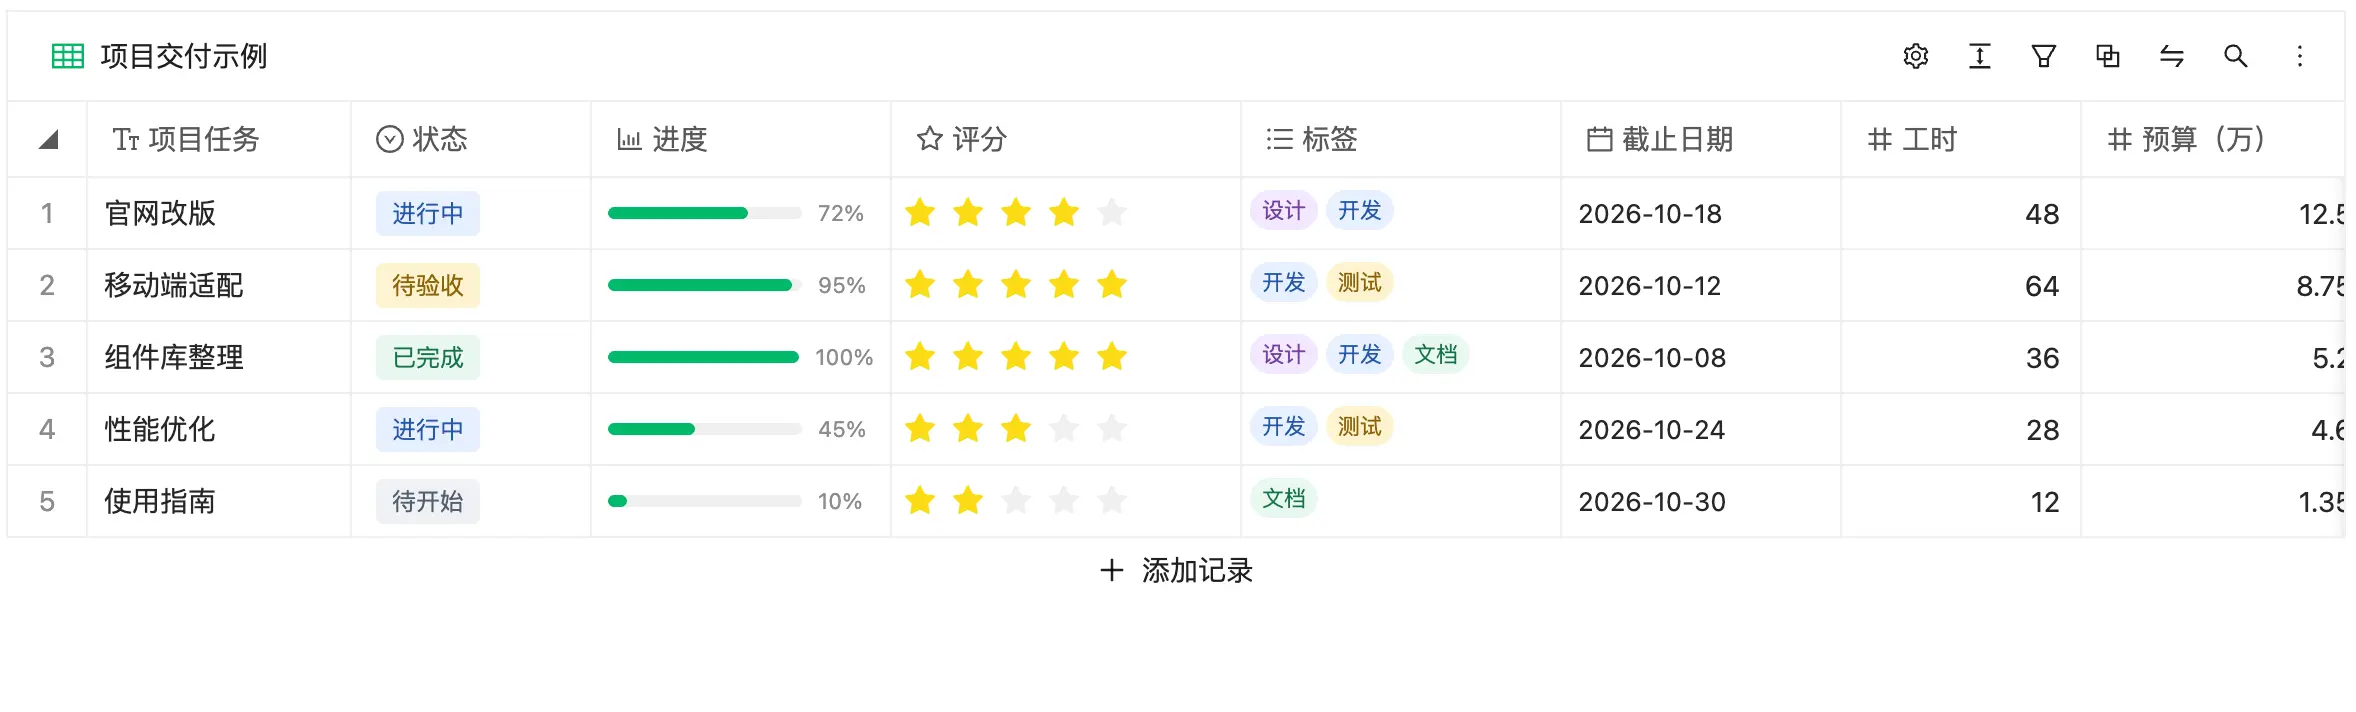
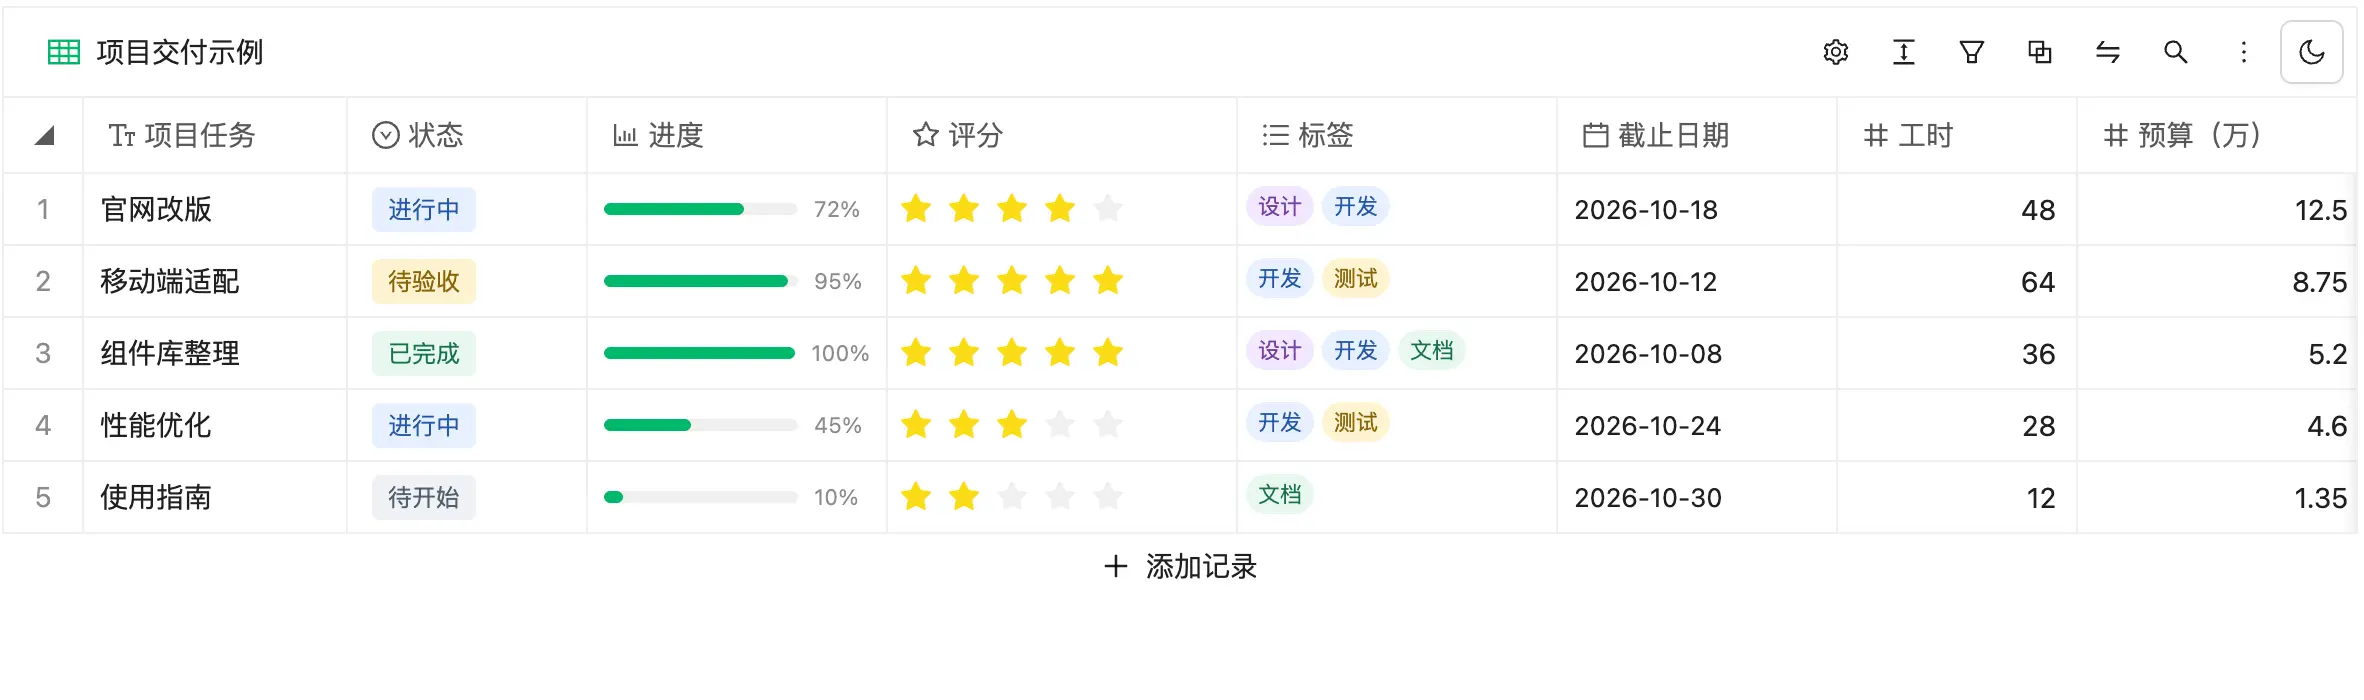
feat: 增加黑暗主题切换

diff --git a/src/App.tsx b/src/App.tsx
@@ -1,4 +1,4 @@
-import { Alert, Button, ConfigProvider, type ThemeConfig } from 'antd'
+import { Alert, theme as antdTheme, Button, ConfigProvider, type ThemeConfig } from 'antd'
 import type React from 'react'
 import { lazy, Suspense, useCallback, useMemo, useRef, useState } from 'react'
 import type { ContextMenuComponentProps } from 'react-datasheet-grid'
@@ -32,6 +32,7 @@ import { columnWidth } from './model/columnWidth'
 import type { TableDocument } from './model/document'
 import { newField } from './model/document'
 import { ROW_HEIGHT } from './model/rowHeight'
+import { STORAGE_KEY } from './model/storage'
 import { cellText, createRow, duplicateValues, processRows, textColorTarget } from './model/table'
 
 const FieldModal = lazy(() => import('./components/FieldModal'))
@@ -45,12 +46,26 @@ export interface DimGridProps {
   initialData?: Pick<TableDocument, 'fields' | 'rows'> & { view?: TableDocument['view'] }
   /** Read and save data in localStorage; defaults to true. */
   enableLocalStorage?: boolean
+  /** Remember the toolbar's light/dark choice; defaults to enableLocalStorage. */
+  persistTheme?: boolean
   /** A unique key is recommended when several grids share the same origin. */
   storageKey?: string
   /** Height of the grid container; defaults to 100%. */
   height?: React.CSSProperties['height']
   className?: string
   style?: React.CSSProperties
+}
+
+type ColorMode = 'light' | 'dark'
+type GridProps = DimGridProps & { colorMode: ColorMode; onToggleColorMode: () => void }
+
+function savedColorMode(key: string): ColorMode | null {
+  try {
+    const value = window.localStorage.getItem(key)
+    return value === 'light' || value === 'dark' ? value : null
+  } catch {
+    return null
+  }
 }
 
 function Grid({
@@ -60,9 +75,11 @@ function Grid({
   height = '100%',
   className,
   style,
-  theme,
-}: DimGridProps) {
+  colorMode,
+  onToggleColorMode,
+}: GridProps) {
   const t = useT()
+  const { token } = antdTheme.useToken()
   const locale = useGridLocale()
   const rootRef = useRef<HTMLDivElement>(null)
   const {
@@ -376,9 +393,30 @@ function Grid({
     <div
       ref={rootRef}
       className={`${s.app} dim-grid${className ? ` ${className}` : ''}`}
-      style={{ ...style, height, '--color-primary': theme?.token?.colorPrimary ?? '#00b96b' } as React.CSSProperties}
+      style={
+        {
+          ...style,
+          height,
+          colorScheme: colorMode,
+          '--color-primary': token.colorPrimary,
+          '--color-text': token.colorText,
+          '--color-text-secondary': token.colorTextSecondary,
+          '--color-text-muted': token.colorTextTertiary,
+          '--color-text-placeholder': token.colorTextQuaternary,
+          '--color-icon': token.colorTextSecondary,
+          '--color-border': token.colorBorder,
+          '--color-border-secondary': token.colorBorderSecondary,
+          '--color-bg': token.colorBgContainer,
+          '--color-bg-hover': token.colorFillQuaternary,
+          '--color-bg-input-hover': token.colorFillTertiary,
+          '--color-danger': token.colorError,
+          '--color-danger-bg': token.colorErrorBg,
+        } as React.CSSProperties
+      }
     >
       <GridToolbar
+        colorMode={colorMode}
+        onToggleColorMode={onToggleColorMode}
         table={table}
         recoveryRaw={recoveryRaw}
         setView={setView}
@@ -456,11 +494,49 @@ function Grid({
   )
 }
 
-export default function App({ locale = 'zh-CN', theme, ...props }: DimGridProps) {
+export default function App({
+  locale = 'zh-CN',
+  theme,
+  storageKey,
+  enableLocalStorage = true,
+  persistTheme = enableLocalStorage,
+  ...props
+}: DimGridProps) {
+  const themeStorageKey = `${storageKey ?? STORAGE_KEY}.colorMode`
+  const [modeOverride, setModeOverride] = useState<ColorMode | null>(() =>
+    persistTheme ? savedColorMode(themeStorageKey) : null,
+  )
+  const algorithms = theme?.algorithm ? (Array.isArray(theme.algorithm) ? theme.algorithm : [theme.algorithm]) : []
+  const colorMode: ColorMode = modeOverride ?? (algorithms.includes(antdTheme.darkAlgorithm) ? 'dark' : 'light')
+  const effectiveTheme: ThemeConfig = {
+    ...theme,
+    token: { colorPrimary: '#00b96b', ...theme?.token },
+    algorithm: modeOverride
+      ? modeOverride === 'dark'
+        ? antdTheme.darkAlgorithm
+        : antdTheme.defaultAlgorithm
+      : theme?.algorithm,
+  }
   return (
     <LocaleContext.Provider value={locale}>
-      <ConfigProvider locale={antLocales[locale]} theme={theme ?? { token: { colorPrimary: '#00b96b' } }}>
-        <Grid {...props} theme={theme} />
+      <ConfigProvider locale={antLocales[locale]} theme={effectiveTheme}>
+        <Grid
+          {...props}
+          storageKey={storageKey}
+          enableLocalStorage={enableLocalStorage}
+          colorMode={colorMode}
+          onToggleColorMode={() => {
+            const nextMode = colorMode === 'dark' ? 'light' : 'dark'
+            setModeOverride(nextMode)
+            if (persistTheme) {
+              try {
+                window.localStorage.setItem(themeStorageKey, nextMode)
+              } catch {
+                // Keep the selected theme for this session when storage is unavailable.
+              }
+            }
+          }}
+        />
       </ConfigProvider>
     </LocaleContext.Provider>
   )

diff --git a/src/components/GridToolbar.tsx b/src/components/GridToolbar.tsx
@@ -1,8 +1,10 @@
-import { Flex } from 'antd'
+import { MoonOutlined, SunOutlined } from '@ant-design/icons'
+import { Button, Flex, Tooltip } from 'antd'
 import type { Dispatch, ReactNode, SetStateAction } from 'react'
 import s from '../App.module.css'
 import { type FieldDef, type FilterItem, type GroupByState, newId, type SortItem } from '../constants'
 import type useTableDocument from '../hooks/useTableDocument'
+import { useT } from '../locale'
 import type { TableDocument } from '../model/document'
 import BackupControls from './BackupControls'
 import FilterPanel from './FilterPanel'
@@ -14,6 +16,8 @@ import TableSettings from './TableSettings'
 import ViewTitle from './ViewTitle'
 
 type Props = {
+  colorMode: 'light' | 'dark'
+  onToggleColorMode: () => void
   table: TableDocument
   recoveryRaw: string | null
   setView: ReturnType<typeof useTableDocument>['setView']
@@ -30,6 +34,8 @@ type Props = {
 }
 
 export default function GridToolbar({
+  colorMode,
+  onToggleColorMode,
   table,
   recoveryRaw,
   setView,
@@ -44,6 +50,7 @@ export default function GridToolbar({
   onImport,
   renderFieldMenu,
 }: Props) {
+  const t = useT()
   const {
     fields,
     view: { hiddenFields, pinnedFieldId, rowHeight, filters, groupBy, sorts },
@@ -51,7 +58,7 @@ export default function GridToolbar({
   return (
     <Flex className={s.toolbar} align="center" justify="space-between" gap="small" wrap>
       <ViewTitle name={table.view.name} onRename={(name) => setView('name', name)} />
-      <Flex className={s.toolbarActions} align="center" justify="flex-end" gap="0" wrap>
+      <Flex className={s.toolbarActions} align="center" justify="flex-end" gap={2} wrap>
         <TableSettings
           fields={fields}
           hiddenFields={hiddenFields}
@@ -94,7 +101,17 @@ export default function GridToolbar({
         />
 
         <SearchPanel onSearch={onSearch} />
+
         <BackupControls document={table} recoveryRaw={recoveryRaw} onImport={onImport} />
+
+        <Tooltip title={t(colorMode === 'dark' ? '切换到浅色主题' : '切换到深色主题')}>
+          <Button
+            variant="text"
+            icon={colorMode === 'dark' ? <SunOutlined /> : <MoonOutlined />}
+            aria-label={t(colorMode === 'dark' ? '切换到浅色主题' : '切换到深色主题')}
+            onClick={onToggleColorMode}
+          />
+        </Tooltip>
       </Flex>
     </Flex>
   )

diff --git a/src/components/buildDsgCol.tsx b/src/components/buildDsgCol.tsx
@@ -84,6 +84,17 @@ SelectCell.displayName = 'SelectCell'
 
 type MultiSelectColData = { options: FieldOption[]; fieldId: string }
 
+function MultiOptionTag({ option }: { option: FieldOption }) {
+  return (
+    <span
+      className={s.selectTagSmall}
+      style={{ '--tag-bg': option.color, '--tag-color': option.textColor } as React.CSSProperties}
+    >
+      {option.label}
+    </span>
+  )
+}
+
 const MultiSelectCell = React.memo(
   ({ active, rowData, setRowData, focus, stopEditing, columnData }: CellProps<RowData, MultiSelectColData>) => {
     const ref = useRef<React.ComponentRef<typeof Select>>(null)
@@ -118,28 +129,11 @@ const MultiSelectCell = React.memo(
           className={s.cellFull}
           options={options.map((o) => ({
             value: o.label,
-            label: (
-              <span style={{ display: 'inline-flex', alignItems: 'center', gap: 6 }}>
-                <span className={s.optionDot} style={{ '--dot-bg': o.color } as React.CSSProperties} />
-                {o.label}
-              </span>
-            ),
+            label: <MultiOptionTag option={o} />,
           }))}
           tagRender={(props) => {
             const o = options.find((x) => x.label === props.value)
-            return (
-              <span
-                className={s.selectTagSmall}
-                style={
-                  {
-                    '--tag-bg': o?.color || 'var(--color-border)',
-                    '--tag-color': o?.textColor || 'var(--color-text-secondary)',
-                  } as React.CSSProperties
-                }
-              >
-                {o?.label ?? props.value}
-              </span>
-            )
+            return o ? <MultiOptionTag option={o} /> : <span>{props.value}</span>
           }}
         />
       </div>

diff --git a/src/i18n.ts b/src/i18n.ts
@@ -1,6 +1,8 @@
 export type GridLocale = 'zh-CN' | 'en-US'
 
 const english: Record<string, string> = {
+  切换到浅色主题: 'Switch to light theme',
+  切换到深色主题: 'Switch to dark theme',
   文本: 'Text',
   数字: 'Number',
   单选: 'Single select',

diff --git a/src/components/buildDsgCol.module.css b/src/components/buildDsgCol.module.css
@@ -124,15 +124,6 @@
   font-size: 12px;
 }
 
-/* Option dot */
-.optionDot {
-  width: 10px;
-  height: 10px;
-  border-radius: 3px;
-  background: var(--dot-bg);
-  display: inline-block;
-}
-
 /* Date cell */
 .dateCell {
   padding: 0 8px;

diff --git a/src/main.tsx b/src/main.tsx
@@ -15,6 +15,7 @@ ReactDOM.createRoot(root).render(
       storageKey="dim-grid.demo"
       initialData={demoData}
       enableLocalStorage={false}
+      persistTheme
     />
   </StrictMode>,
 )

diff --git a/README.en.md b/README.en.md
@@ -9,6 +9,7 @@ An embeddable multidimensional grid for React applications. It supports editing 
 The main table view with text, status, progress, rating, tags, and date fields, plus an "Add record" entry at the bottom.
 
 ![Main table view](docs/demo.webp)
+![Main table view](docs/demo4.webp)
 
 Click a column header to open the column menu for editing, duplicating, inserting, pinning, grouping, filtering, sorting, and highlighting duplicates.
 
@@ -71,7 +72,7 @@ export function RecordsPage() {
 
 `initialData` initializes the grid only on its first mount. Every field and row needs a unique `id`; row values are keyed by field ID. By default, data already saved under `storageKey` takes precedence over `initialData`. Changing the `initialData` prop does not reset the current grid.
 
-Set `enableLocalStorage={false}` to disable browser storage. The grid then starts from `initialData` and does not read or write `localStorage`. Edits last only for the current component instance; JSON import and export remain available.
+Set `enableLocalStorage={false}` to disable browser storage. The grid then starts from `initialData` and does not read or write `localStorage`. Edits last only for the current component instance; JSON import and export remain available. Theme preferences are also not saved by default in this case; set `persistTheme` to save them separately.
 
 ### Component props
 
@@ -79,8 +80,9 @@ Set `enableLocalStorage={false}` to disable browser storage. The grid then start
 | --- | --- | --- | --- |
 | `initialData` | `{ fields, rows, view? }` | Built-in sample data | Initial grid content; `view` is optional. |
 | `locale` | `'zh-CN' \| 'en-US'` | `'zh-CN'` | Language for the grid UI, Ant Design controls, and date editor. |
-| `theme` | Ant Design `ThemeConfig` | — | Theme passed to the grid's internal `ConfigProvider`. |
+| `theme` | Ant Design `ThemeConfig` | — | Theme passed to the grid's internal `ConfigProvider`; grid colors also follow Ant Design tokens. |
 | `enableLocalStorage` | `boolean` | `true` | Whether to read from and write to browser local storage. |
+| `persistTheme` | `boolean` | Same as `enableLocalStorage` | Whether to remember the toolbar's light/dark choice in browser storage. |
 | `storageKey` | `string` | `dim-grid.document` | Local storage key; use a different key for each grid on the same origin. |
 | `height` | CSS height value | `100%` | Grid height; with `100%`, the parent must have a definite height. |
 | `className`, `style` | React container props | — | Attributes for the outer container. |
@@ -95,6 +97,8 @@ The grid configures its own Ant Design controls and date editor. The host app do
   height={600}
 />
 ```
+
+Use the moon/sun button at the right of the toolbar to switch themes. With `persistTheme` enabled, the choice is saved under `${storageKey}.colorMode` and survives a refresh. To start in dark mode, pass `theme={{ algorithm: antdTheme.darkAlgorithm }}` (import `theme as antdTheme` from `antd`).
 
 The `locale` prop translates the grid UI. Field names, options, and row values supplied by the host app remain as provided.
 

diff --git a/README.md b/README.md
@@ -10,6 +10,8 @@
 
 ![主表格视图](docs/demo.webp)
 
+![主表格视图](docs/demo4.webp)
+
 点击列头可打开列菜单，进行编辑列、复制列、插入列、固定、分组、筛选、排序和高亮重复值等操作。
 
 ![列菜单](docs/demo1.webp)
@@ -71,7 +73,7 @@ export function RecordsPage() {
 
 `initialData` 只在首次挂载时用于初始化。每个字段和记录都需要唯一的 `id`；记录中的值使用字段 ID 作键。默认情况下，组件会先读取 `storageKey` 对应的本地数据，因此已有保存内容会覆盖 `initialData`。修改 `initialData` 属性也不会重置正在编辑的表格。
 
-如果不需要浏览器本地存储，设置 `enableLocalStorage={false}`。此时组件从 `initialData` 开始，不读取或写入 `localStorage`，编辑内容只保留在当前组件实例中；JSON 导入导出仍然可用。
+如果不需要浏览器本地存储，设置 `enableLocalStorage={false}`。此时组件从 `initialData` 开始，不读取或写入 `localStorage`，编辑内容只保留在当前组件实例中；JSON 导入导出仍然可用。主题偏好默认也不会保存，如需单独保存可设置 `persistTheme`。
 
 ### 组件属性
 
@@ -79,8 +81,9 @@ export function RecordsPage() {
 | --- | --- | --- | --- |
 | `initialData` | `{ fields, rows, view? }` | 内置示例数据 | 首次挂载时的表格内容；`view` 可选。 |
 | `locale` | `'zh-CN' \| 'en-US'` | `'zh-CN'` | 组件界面、Ant Design 控件和日期编辑器的语言。 |
-| `theme` | Ant Design `ThemeConfig` | — | 传给组件内部 `ConfigProvider` 的主题配置。 |
+| `theme` | Ant Design `ThemeConfig` | — | 传给组件内部 `ConfigProvider` 的主题配置；表格颜色也会跟随 Ant Design token。 |
 | `enableLocalStorage` | `boolean` | `true` | 是否读取和保存到浏览器本地存储。 |
+| `persistTheme` | `boolean` | 与 `enableLocalStorage` 相同 | 是否在浏览器本地保存工具栏的明暗主题选择。 |
 | `storageKey` | `string` | `dim-grid.document` | 本地存储键；同一域名下的多个表格应使用不同的键。 |
 | `height` | CSS 高度值 | `100%` | 表格高度；使用 `100%` 时，父容器需有确定高度。 |
 | `className`、`style` | React 容器属性 | — | 设置外层容器样式。 |
@@ -95,6 +98,8 @@ export function RecordsPage() {
   height={600}
 />
 ```
+
+工具栏右侧的月亮/太阳按钮可切换明暗主题。启用 `persistTheme` 时，选择会保存在 `${storageKey}.colorMode` 下，刷新后仍然生效。也可以通过 `theme={{ algorithm: antdTheme.darkAlgorithm }}` 设置初始暗色主题（从 `antd` 导入 `theme as antdTheme`）。
 
 `locale` 只翻译组件界面；传入的字段名、选项和记录内容属于业务数据，不会被自动翻译。
 
